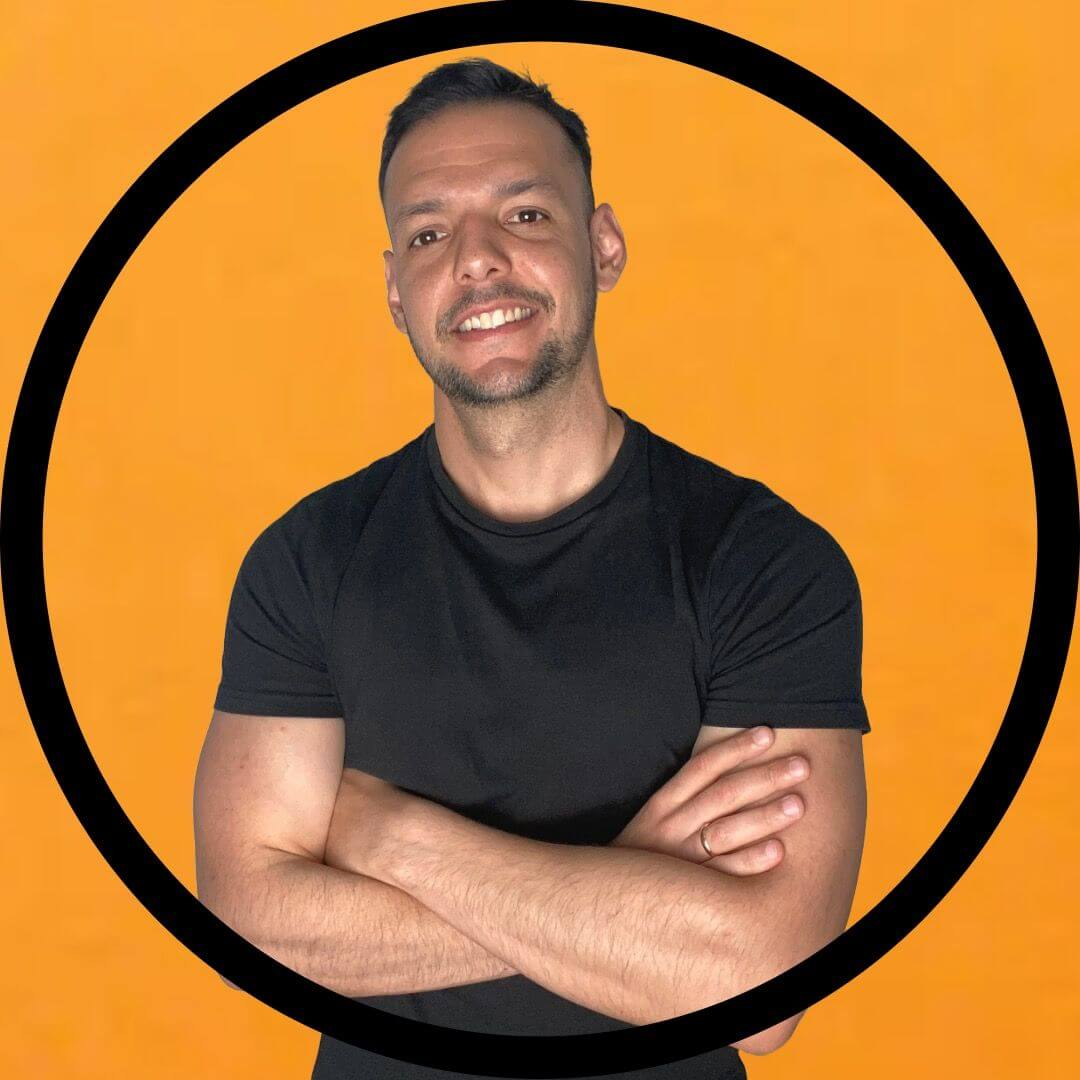
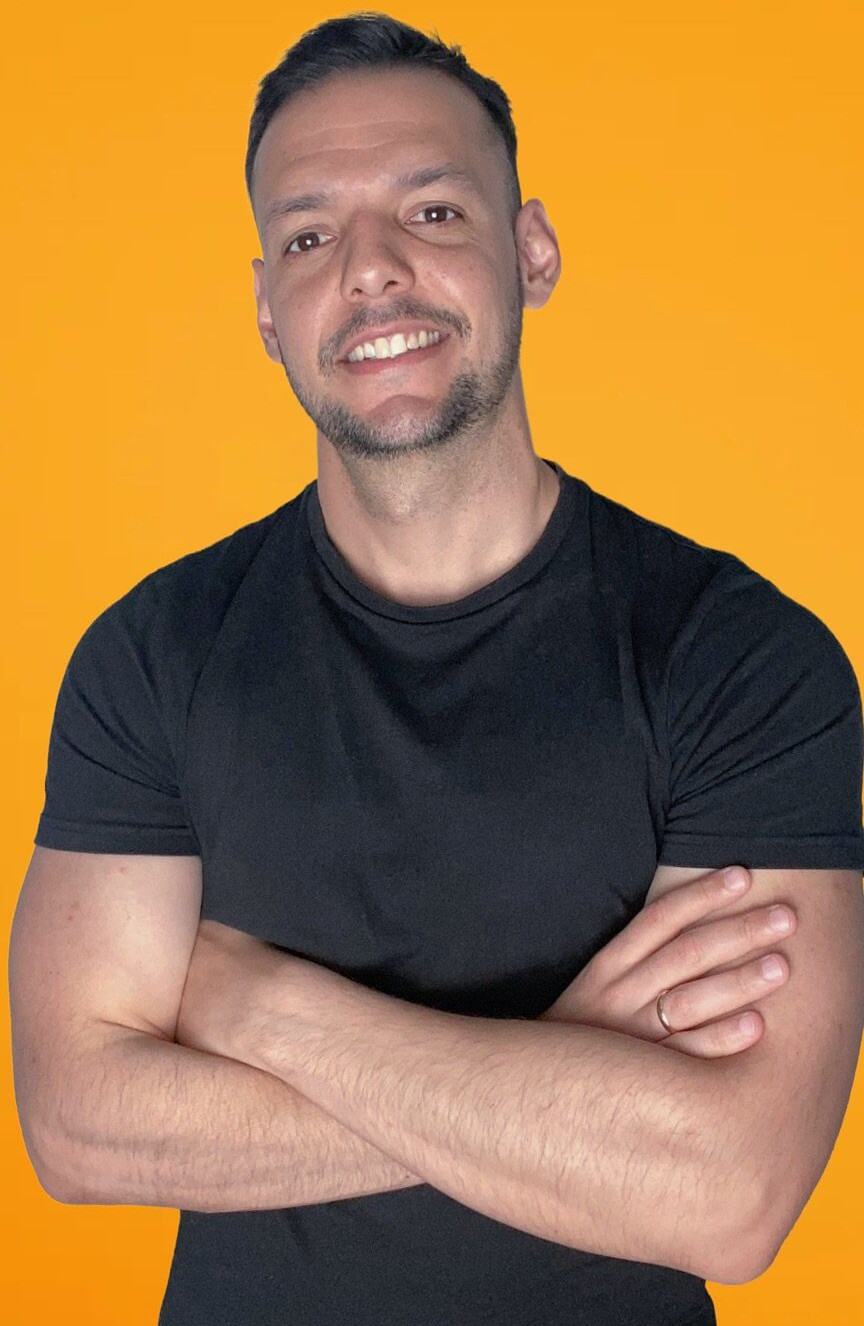
local changes to add author image

diff --git a/src/components/lesson/Card.tsx b/src/components/lesson/Card.tsx
@@ -54,7 +54,7 @@ export default function Card({
           <img
             src={headerImage}
             alt={`Cover art for ${card.title}`}
-            className="h-28 w-28 rounded-2xl border-4 border-white object-cover shadow-xl dark:border-black"
+            className="h-27 w-28 rounded-2xl border-4 border-white object-cover shadow-xl dark:border-black"
           />
         </div>
       </header>
